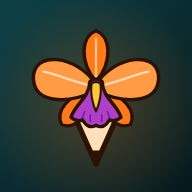
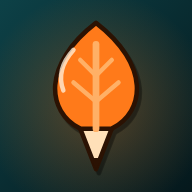
enttrada nueva

Changed region(s): [[0.1562, 0.0938, 0.8438, 0.9062]]

diff --git a/index.html b/index.html
@@ -5,10 +5,10 @@
 <meta name="viewport" content="width=device-width,initial-scale=1,viewport-fit=cover">
 <meta name="theme-color" content="#05181c">
 <meta name="mobile-web-app-capable" content="yes">
-<link rel="manifest" href="manifest.webmanifest?v=12">
-<link rel="icon" href="favicon.svg?v=12" type="image/svg+xml">
-<link rel="icon" href="favicon.ico?v=12" sizes="48x48">
-<link rel="apple-touch-icon" href="apple-touch-icon.png?v=12">
+<link rel="manifest" href="manifest.webmanifest?v=15">
+<link rel="icon" href="favicon.svg?v=15" type="image/svg+xml">
+<link rel="icon" href="favicon.ico?v=15" sizes="48x48">
+<link rel="apple-touch-icon" href="apple-touch-icon.png?v=15">
 <style>:root{padding:env(safe-area-inset-top,0px) 0 env(safe-area-inset-bottom,0px)}[hidden]{display:none!important}img{max-width:100%}</style>
 <title>Aluna</title>
 <meta name="claude:viewport-fit-sides" content="cover">
@@ -1626,12 +1626,12 @@ let bvPendiente = true, bvDestino = hashInicial;
 let recuperando = /(^|&)type=recovery(&|$)/.test(hashInicial), avisoLink = '';
 if (recuperando) bvDestino = 'nueva-clave';
 else if (/(^|&)error(_code|_description)?=/.test(hashInicial)) { avisoLink = 'Ese link ya venció o ya se usó. Pide uno nuevo.'; bvDestino = 'olvide'; }
-// Logo Aluna: orquídea campana (flor de mayo, naranja con labelo morado) + punta de lápiz.
-const LOGO_MARCA = "<path d=\"M75 126H125L100 182Z\" fill=\"#ffe0b8\" stroke=\"#2b1203\" stroke-width=\"6\" stroke-linejoin=\"round\" stroke-linecap=\"round\"/><path d=\"M90 166.32L100 182L110 166.32Z\" fill=\"#2b1203\"/><g transform=\"translate(100 92) rotate(0) scale(0.66)\"><path d=\"M0 -8C-30 -44 -26 -88 0 -98C26 -88 30 -44 0 -8Z\" transform=\"rotate(138) scale(.92)\" fill=\"#ff7a1a\" stroke=\"#2b1203\" stroke-width=\"6\" stroke-linejoin=\"round\" stroke-linecap=\"round\"/><path d=\"M0 -8C-30 -44 -26 -88 0 -98C26 -88 30 -44 0 -8Z\" transform=\"rotate(-138) scale(.92)\" fill=\"#ff7a1a\" stroke=\"#2b1203\" stroke-width=\"6\" stroke-linejoin=\"round\" stroke-linecap=\"round\"/><path d=\"M0 -8C-30 -44 -26 -88 0 -98C26 -88 30 -44 0 -8Z\" fill=\"#ff7a1a\" stroke=\"#2b1203\" stroke-width=\"6\" stroke-linejoin=\"round\" stroke-linecap=\"round\"/><path d=\"M0 -12V-84\" stroke=\"#ffc58a\" stroke-width=\"4\" stroke-linecap=\"round\" fill=\"none\"/><path d=\"M0 -4C-34 -56 -112 -64 -110 -14C-108 32 -48 30 0 8Z\" fill=\"#ff9a45\" stroke=\"#2b1203\" stroke-width=\"6\" stroke-linejoin=\"round\" stroke-linecap=\"round\"/><path d=\"M0 -4C-34 -56 -112 -64 -110 -14C-108 32 -48 30 0 8Z\" transform=\"scale(-1 1)\" fill=\"#ff9a45\" stroke=\"#2b1203\" stroke-width=\"6\" stroke-linejoin=\"round\" stroke-linecap=\"round\"/><path d=\"M-12 -2C-44 -10 -72 -22 -92 -26M12 -2C44 -10 72 -22 92 -26\" stroke=\"#ffd7ae\" stroke-width=\"4\" stroke-linecap=\"round\" fill=\"none\"/><path d=\"M-11 -8C-12 20 -36 30 -44 54Q-32 64 -24 58Q-14 76 0 68Q14 76 24 58Q32 64 44 54C36 30 12 20 11 -8C5 -15 -5 -15 -11 -8Z\" fill=\"#b13fc6\" stroke=\"#2b1203\" stroke-width=\"6\" stroke-linejoin=\"round\" stroke-linecap=\"round\"/><path d=\"M-8 -4C-10 14 -6 30 0 44C6 30 10 14 8 -4C4 -9 -4 -9 -8 -4Z\" fill=\"#ffc83a\" stroke=\"#2b1203\" stroke-width=\"3.5\" stroke-linejoin=\"round\" stroke-linecap=\"round\"/><path d=\"M-20 44Q-24 56 -26 58M20 44Q24 56 26 58M-10 50L-10 62M10 50L10 62\" stroke=\"#4b1384\" stroke-width=\"2.6\" stroke-linecap=\"round\" fill=\"none\" opacity=\".7\"/></g>";
+// Logo Aluna: hoja naranja que termina en punta de lápiz.
+const LOGO_MARCA = "<path d=\"M172 300H228L200 372Z\" fill=\"#ffe0b8\" stroke=\"#2b1203\" stroke-width=\"8\" stroke-linejoin=\"round\" stroke-linecap=\"round\"/><path d=\"M189 352L200 372L211 352Z\" fill=\"#2b1203\"/><path d=\"M172 300C112 270 104 186 200 112C296 186 288 270 228 300Z\" fill=\"#ff7a1a\" stroke=\"#2b1203\" stroke-width=\"8\" stroke-linejoin=\"round\" stroke-linecap=\"round\"/><path class=\"lg-vena\" pathLength=\"1\" d=\"M200 300V150\" stroke=\"#ffb066\" stroke-width=\"12\" stroke-linecap=\"round\" fill=\"none\"/><path class=\"lg-vena\" pathLength=\"1\" d=\"M200 252L160 218M200 252L240 218M200 206L172 178M200 206L228 178\" stroke=\"#ffb066\" stroke-width=\"8\" stroke-linecap=\"round\" fill=\"none\"/><path class=\"lg-brillo\" d=\"M142 232C132 206 140 182 160 160\" stroke=\"#fff4e2\" stroke-width=\"8\" stroke-linecap=\"round\" fill=\"none\" opacity=\".75\"/>";
 const LOGO_LETRAS = "M168.1 30.5L166.2 29.9L162.4 30.1L157.0 33.4L150.8 40.2L143.4 51.8L142.6 51.0L143.5 35.9L142.8 33.8L140.8 31.9L137.9 31.1L135.2 32.1L133.4 34.2L132.1 38.5L131.5 45.5L131.5 63.8L132.9 77.0L134.1 80.2L135.8 82.0L138.1 82.9L140.4 82.8L143.4 80.6L147.6 67.9L153.8 54.4L159.9 45.4L161.2 44.0L162.2 43.8L163.4 45.9L163.9 61.2L164.9 69.4L166.8 77.8L169.2 82.5L172.0 84.6L175.8 84.6L177.9 83.0L178.8 78.9L175.6 66.5L174.2 41.0L171.4 33.5ZM119.6 30.2L117.0 29.4L114.5 29.8L112.9 30.8L111.1 33.1L108.6 45.8L105.5 56.1L99.8 68.0L97.2 71.2L94.5 73.2L92.6 73.0L91.2 71.5L89.5 65.2L89.5 49.6L91.4 37.8L91.1 35.4L89.2 32.5L86.6 31.5L83.5 32.1L81.6 33.8L79.8 38.0L78.1 47.2L77.6 54.8L77.9 65.2L78.9 71.0L81.0 76.6L84.1 81.1L86.6 83.1L91.6 84.9L95.4 84.8L98.9 83.5L102.0 81.5L105.5 78.1L111.5 69.1L112.5 69.6L113.9 74.9L116.0 79.4L118.2 82.1L120.5 83.6L122.9 84.0L124.9 83.5L127.0 81.6L127.5 80.4L127.4 77.6L123.6 68.6L121.8 59.2L121.5 47.8L122.4 34.9L121.4 32.0ZM42.1 30.0L37.0 28.2L31.9 28.1L23.1 30.2L13.4 35.8L8.5 39.6L3.6 44.8L2.8 46.8L2.9 49.5L4.4 51.6L7.6 52.8L11.0 51.1L18.0 45.0L22.5 41.9L29.2 38.6L32.0 38.0L35.2 38.4L37.1 40.5L37.8 43.6L37.4 50.4L36.2 53.0L31.6 52.0L25.6 52.0L18.1 54.2L10.5 59.0L4.8 65.1L0.8 72.9L0.0 76.8L0.0 80.2L1.8 85.8L4.0 88.5L6.1 90.0L10.0 91.2L14.4 91.4L18.4 90.6L23.8 88.2L28.0 85.5L31.8 82.2L39.8 72.2L40.9 73.0L42.0 77.5L44.6 83.6L47.2 86.8L49.0 87.9L51.8 88.2L53.9 87.5L55.4 86.0L56.0 84.1L55.9 82.4L51.8 72.5L49.6 63.9L48.9 54.4L49.0 44.4L48.4 39.5L46.0 33.6ZM33.5 62.2L33.5 63.2L30.4 68.8L27.9 72.1L23.8 76.2L20.5 78.6L17.2 80.0L14.5 80.5L11.9 79.2L11.4 76.0L12.5 72.5L15.2 68.5L18.9 65.1L22.6 62.9L28.6 61.1L31.6 61.2ZM187.0 41.5L184.8 44.5L184.5 47.1L185.0 48.8L186.1 50.0L188.6 50.9L192.4 50.0L203.2 42.0L210.5 38.6L213.6 37.9L217.1 38.0L218.9 39.4L219.8 41.9L219.6 49.4L219.2 51.9L218.5 52.9L210.9 51.5L204.2 52.2L198.8 54.2L194.6 56.5L190.6 59.6L187.6 62.9L184.1 69.5L183.1 75.9L185.0 82.4L188.5 86.2L191.1 87.8L196.4 88.9L200.9 88.6L205.5 87.5L210.5 84.9L214.6 81.6L218.1 77.9L221.4 73.1L222.4 72.8L226.4 82.9L228.9 86.8L231.4 89.2L234.1 90.8L236.6 90.9L239.0 90.0L240.8 88.4L241.8 85.8L241.5 83.2L240.6 81.8L237.5 79.5L235.8 77.2L232.5 68.2L231.0 57.2L230.6 39.8L229.4 35.6L226.6 31.5L223.1 29.1L219.4 28.0L215.2 27.8L207.8 29.0L198.1 33.1L191.6 37.5ZM215.8 62.1L215.6 63.9L212.1 69.6L206.2 75.6L202.0 78.0L199.0 78.8L196.9 78.5L194.9 76.9L194.2 75.2L194.6 72.1L197.4 67.5L201.0 64.2L205.5 62.0L209.6 60.9L213.5 60.9ZM66.2 0.0L63.1 1.2L61.2 3.8L58.9 12.6L56.9 29.6L56.9 49.5L57.9 60.5L60.9 75.9L63.5 83.2L65.5 86.5L67.9 88.4L70.1 88.8L72.8 87.8L74.5 84.9L74.4 81.6L72.5 76.1L70.5 66.2L68.9 49.5L69.4 25.9L72.0 5.0L71.5 3.0L70.2 1.2L68.0 0.1Z";
 const LOGO_SUB = "M172.0 107.6L169.6 109.5L169.4 111.8L170.9 113.8L173.5 114.2L175.2 113.2L176.1 110.6L174.9 108.4ZM163.1 108.9L161.8 107.0L160.2 106.4L151.4 105.1L138.9 104.6L120.9 105.1L98.9 108.4L88.1 111.1L82.0 113.4L80.6 114.4L80.4 115.4L81.2 116.2L97.4 113.0L112.0 111.0L121.0 110.5L145.1 110.8L160.1 112.6L162.6 111.1ZM199.4 99.6L198.9 98.4L197.4 97.0L192.8 95.4L172.6 92.2L142.8 90.4L125.5 90.4L98.2 92.1L76.2 95.2L61.9 98.2L47.8 102.1L39.0 105.1L26.4 110.8L24.8 112.4L24.5 114.5L25.4 115.9L27.6 116.4L45.2 110.8L69.5 104.9L86.9 101.9L105.1 99.9L122.1 98.8L151.4 98.9L174.4 100.9L190.4 103.6L195.9 104.0L198.8 102.4Z";
-const LOGO_DEFS = '<symbol id="aluna-mark" viewBox="22 20 156 168">' + LOGO_MARCA + '</symbol><symbol id="aluna-letras" viewBox="-4 -4 250 100"><path d="' + LOGO_LETRAS + '" fill="#f6f1e6" fill-rule="evenodd"/></symbol>';
-const marcaMini = h => '<svg class="mk" style="height:' + h + 'px" viewBox="0 0 156 168" aria-hidden="true"><use href="#aluna-mark" width="156" height="168"/></svg>';
+const LOGO_DEFS = '<symbol id="aluna-mark" viewBox="92 100 216 284">' + LOGO_MARCA + '</symbol><symbol id="aluna-letras" viewBox="-4 -4 250 100"><path d="' + LOGO_LETRAS + '" fill="#f6f1e6" fill-rule="evenodd"/></symbol>';
+const marcaMini = h => '<svg class="mk" style="height:' + h + 'px" viewBox="0 0 216 284" aria-hidden="true"><use href="#aluna-mark" width="216" height="284"/></svg>';
 const letrasMini = w => '<svg class="lt" style="width:' + w + 'px" viewBox="0 0 250 100" aria-hidden="true"><use href="#aluna-letras" width="250" height="100"/></svg>';
 
 /* ---------- La orquídea (Cattleya trianae): una hoja carnosa, vaina, flor que se abre ---------- */
@@ -1738,9 +1738,10 @@ function orq(v, o) {
 }
 
 function reducido() { return !!(window.matchMedia && matchMedia('(prefers-reduced-motion: reduce)').matches); }
-// Entrada: una ráfaga de hojitas cruza la pantalla y va dejando "aluna"; después la flor-lápiz cae y se queda con su brillo.
+// Entrada: una ráfaga de hojas, pétalos y florecitas de colores cruza la pantalla y va dejando "aluna";
+// después la hoja-lápiz cae, se balancea y se queda quieta con su brillo.
 const BV_SC = 280 / 246, BV_WX = (390 - 246 * BV_SC) / 2, BV_WY = 338;   // dónde queda la palabra en la escena
-const BV_FIN = { x: 195, y: 300, sc: .74 };                             // dónde termina el logo (la punta es el ancla)
+const BV_FIN = { x: 195, y: 302, sc: .385 };                            // dónde termina la hoja-lápiz (la punta es el ancla)
 function vistaBienvenida() {
   return '<section class="bienvenida" data-action="empezar" role="button" tabindex="0" aria-label="Entrar a Aluna. Toca la pantalla">' +
     '<div class="bv-fondo" aria-hidden="true"><span class="bv-g bv-g1"></span><span class="bv-g bv-g2"></span><span class="bv-g bv-g3"></span></div>' +
@@ -1750,12 +1751,14 @@ function vistaBienvenida() {
     '<radialGradient id="bvGl"><stop offset="0" stop-color="#ff7a1a" stop-opacity=".38"/><stop offset="1" stop-color="#ff7a1a" stop-opacity="0"/></radialGradient>' +
     '<linearGradient id="bvFr" gradientUnits="userSpaceOnUse" x1="-60" y1="0" x2="-20" y2="0"><stop offset="0" stop-color="#fff"/><stop offset="1" stop-color="#000"/></linearGradient>' +
     '<mask id="bvMB" maskUnits="userSpaceOnUse" x="-160" y="-40" width="620" height="220"><rect x="-160" y="-40" width="620" height="220" fill="url(#bvFr)"/></mask>' +
-    '<path id="bvHoja" d="M0 -11C9 -4 9 6 0 11C-9 6 -9 -4 0 -11Z"/></defs>' +
-    '<circle class="bv-brillo" cx="195" cy="245" r="125" fill="url(#bvGl)" opacity="0"/>' +
+    '<path id="bvHoja" d="M0 -11C9 -4 9 6 0 11C-9 6 -9 -4 0 -11Z" stroke="#2b1203" stroke-width="1.2"/>' +
+    '<path id="bvPetalo" d="M0 -9C8 -9 11 2 0 10C-11 2 -8 -9 0 -9Z" stroke="#2b1203" stroke-width="1.2"/>' +
+    '<g id="bvFl5" stroke="#2b1203" stroke-width="1"><path d="M0 0C-3 -3 -4 -8 0 -9C4 -8 3 -3 0 0Z" transform="rotate(0)"/><path d="M0 0C-3 -3 -4 -8 0 -9C4 -8 3 -3 0 0Z" transform="rotate(72)"/><path d="M0 0C-3 -3 -4 -8 0 -9C4 -8 3 -3 0 0Z" transform="rotate(144)"/><path d="M0 0C-3 -3 -4 -8 0 -9C4 -8 3 -3 0 0Z" transform="rotate(216)"/><path d="M0 0C-3 -3 -4 -8 0 -9C4 -8 3 -3 0 0Z" transform="rotate(288)"/><circle r="2" fill="#ffd23f" stroke="none"/></g></defs>' +
+    '<circle class="bv-brillo" cx="195" cy="250" r="125" fill="url(#bvGl)" opacity="0"/>' +
     '<g class="bv-viento" fill="none" stroke="#f6f1e6" stroke-linecap="round" stroke-width="1.4"></g>' +
     '<g transform="translate(' + BV_WX + ' ' + BV_WY + ') scale(' + BV_SC + ')"><g mask="url(#bvMB)"><path d="' + LOGO_LETRAS + '" fill="#f6f1e6" fill-rule="evenodd"/><path d="' + LOGO_SUB + '" fill="#ff7a1a"/></g></g>' +
     '<g class="bv-hojas"></g>' +
-    '<g class="bv-lapiz" opacity="0"><g transform="translate(-100,-182)">' + LOGO_MARCA + '</g></g></svg>' +
+    '<g class="bv-lapiz" opacity="0"><g transform="translate(-200,-372)">' + LOGO_MARCA + '</g></g></svg>' +
     '<p class="bv-lema">tu lugar para sembrar ideas</p></div>' +
     '<p class="bv-toca" aria-hidden="true">Toca para entrar</p>' +
     '<div class="bv-carga" aria-hidden="true" style="--dur:' + (DURACION_BIENVENIDA / 1000) + 's"></div></section>';
@@ -1764,6 +1767,7 @@ function vistaBienvenida() {
 const BV_K = 1;   // velocidad general
 function bvEase(u) { u = u < 0 ? 0 : u > 1 ? 1 : u; return u * u * (3 - 2 * u); }
 function bvEo(u) { u = u < 0 ? 0 : u > 1 ? 1 : u; return 1 - Math.pow(1 - u, 3); }
+function bvBack(u) { if (u <= 0) return 0; if (u >= 1) return 1; const c = 1.9; return 1 + (c + 1) * Math.pow(u - 1, 3) + c * Math.pow(u - 1, 2); }
 function bvRng(a) { return function () { a |= 0; a = a + 0x6D2B79F5 | 0; let t = Math.imul(a ^ a >>> 15, 1 | a); t = t + Math.imul(t ^ t >>> 7, 61 | t) ^ t; return ((t ^ t >>> 14) >>> 0) / 4294967296; }; }
 function bvEscena(sec) {
   const NS = 'http://www.w3.org/2000/svg', svg = sec.querySelector('.bv-escena');
@@ -1774,15 +1778,24 @@ function bvEscena(sec) {
   try { const r = svg.getBoundingClientRect(); if (r.width > 20) { const k = r.width / 390; xMin = -r.left / k - 30; xMax = (window.innerWidth - r.left) / k + 30; yTop = 170 - r.top / k - 70; } } catch (e) {}
   const ancho = xMax - xMin, pasoX = ancho / 450;
   const frente = function (t) { return xMin + ancho * bvEase((t - .85) / 2.9); };
-  const COL = ['#ff7a1a', '#ff9a45', '#e85d04', '#ffb066'], r = bvRng(11), hojas = [], rayas = [];
+  const COL = {
+    hoja: ['#3ccf8e', '#22a876', '#7ad66a', '#178a5f', '#ff9a45'],
+    petalo: ['#e0359b', '#ffc83a', '#e63946', '#ff7a1a', '#8e2bd0', '#ff6fc0'],
+    flor: ['#e0359b', '#ffc83a', '#fff3e0', '#ff8f1f', '#ff3b4a']
+  };
+  const r = bvRng(11), hojas = [], rayas = [];
   const yPal = function () { return BV_WY + (10 + r() * 100) * BV_SC - 4 + (r() - .5) * 10; };
-  for (let i = 0; i < 50; i++) {
-    const g = document.createElementNS(NS, 'g'), u = document.createElementNS(NS, 'use'), v = document.createElementNS(NS, 'path');
-    u.setAttribute('href', '#bvHoja'); u.setAttribute('fill', COL[Math.floor(r() * 4)]);
-    v.setAttribute('d', 'M0 -8V8'); v.setAttribute('stroke', '#2b1203'); v.setAttribute('stroke-width', '1'); v.setAttribute('opacity', '.5');
-    g.appendChild(u); g.appendChild(v); g.setAttribute('opacity', '0'); gH.appendChild(g);
-    if (i < 14) hojas.push({ g: g, lead: true, ts: .6 + r() * .15, off: -4 + r() * 70, y: yPal(), ph: r() * 6, sc: .55 + r() * .45, rot: r() * 360, spin: 120 + r() * 160, life: 3.6 });
-    else { const vx = (190 + r() * 140) * pasoX; hojas.push({ g: g, ts: .5 + r() * 2.8, vx: vx, y: 90 + r() * 640, ph: r() * 6, sc: .45 + r() * .65, rot: r() * 360, spin: (r() - .5) * 320, life: (ancho + 60) / vx + .3 }); }
+  for (let i = 0; i < 58; i++) {
+    const g = document.createElementNS(NS, 'g'), u = document.createElementNS(NS, 'use'), q = r();
+    const tipo = q < .4 ? 'hoja' : q < .7 ? 'petalo' : 'flor';
+    u.setAttribute('href', tipo === 'hoja' ? '#bvHoja' : tipo === 'petalo' ? '#bvPetalo' : '#bvFl5');
+    u.setAttribute('fill', COL[tipo][Math.floor(r() * COL[tipo].length)]);
+    g.appendChild(u);
+    if (tipo === 'hoja') { const v = document.createElementNS(NS, 'path'); v.setAttribute('d', 'M0 -8V8'); v.setAttribute('stroke', '#2b1203'); v.setAttribute('stroke-width', '1'); v.setAttribute('opacity', '.45'); g.appendChild(v); }
+    g.setAttribute('opacity', '0'); gH.appendChild(g);
+    const esc = tipo === 'flor' ? 1.1 + r() * .7 : .55 + r() * .55;
+    if (i < 18) hojas.push({ g: g, lead: true, ts: .6 + r() * .15, off: -4 + r() * 70, y: yPal(), ph: r() * 6, sc: esc, rot: r() * 360, spin: 120 + r() * 160, life: 3.6 });
+    else { const vx = (190 + r() * 140) * pasoX; hojas.push({ g: g, ts: .5 + r() * 2.8, vx: vx, y: 90 + r() * 640, ph: r() * 6, sc: esc, rot: r() * 360, spin: (r() - .5) * 320, life: (ancho + 60) / vx + .3 }); }
   }
   for (let i = 0; i < 9; i++) {
     const x = xMin - 30, y = 120 + i * 70 + ((i * 37) % 30), p = document.createElementNS(NS, 'path');
@@ -1810,7 +1823,7 @@ function bvEscena(sec) {
       s.el.setAttribute('stroke-dasharray', '.38 2'); s.el.setAttribute('stroke-dashoffset', String(.38 - u * 1.2));
       s.el.setAttribute('transform', 'translate(' + (u * ancho * .55) + ' 0)');
     });
-    // la flor-lápiz cae, se balancea y se queda quieta
+    // la hoja-lápiz cae, se balancea y se queda quieta
     const u = Math.max(0, Math.min(1, (t - tD) / .95));
     let y = yTop, rot = 0;
     if (u > 0) {
@@ -1825,7 +1838,7 @@ function bvEscena(sec) {
   }
   return { cuadro: pintarEscena, fin: 8.2 };
 }
-// Estado final (sin movimiento): palabra escrita, flor arriba, lema visible. También es el plan B si algo falla.
+// Estado final (sin movimiento): palabra escrita, hoja arriba, lema visible. También es el plan B si algo falla.
 function bvFinal(sec) {
   try {
     sec.querySelectorAll('[mask]').forEach(function (e) { e.removeAttribute('mask'); });
@@ -1860,8 +1873,8 @@ function iniciarBienvenida() {
     const esc = bvEscena(sec), t0 = performance.now();
     const pasoEsc = function (ahora) {
       const t = Math.max(0, (ahora - t0) / 1000) * BV_K;
-      esc.cuadro(Math.min(t, esc.fin));
-      if (t < esc.fin) bvRaf2 = requestAnimationFrame(pasoEsc);
+      esc.cuadro(t);
+      bvRaf2 = requestAnimationFrame(pasoEsc);
     };
     bvRaf2 = requestAnimationFrame(pasoEsc);
   } catch (e) { bvFinal(sec); }

diff --git a/sw.js b/sw.js
@@ -1,6 +1,6 @@
 // Service worker: deja la app funcionar sin internet.
 // Si cambias index.html y no ves el cambio, sube el número de VERSION.
-const VERSION = 'aluna-v12';
+const VERSION = 'aluna-v15';
 const BASE = ['./', 'index.html', 'manifest.webmanifest', 'icon-192.png', 'icon-512.png', 'favicon.svg', 'apple-touch-icon.png', 'fonts/inter-latin-wght-normal.woff2', 'fonts/outfit-latin-wght-normal.woff2', 'fonts/newsreader-latin-wght-normal.woff2', 'fonts/newsreader-latin-wght-italic.woff2'];
 
 self.addEventListener('install', e => {
